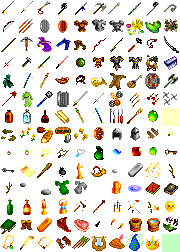
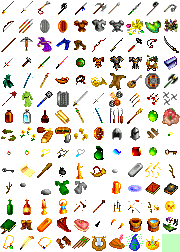
A few item graphic updates - New weird meat graphic by ADoS - Fix up artifacts in mist orb graphic - Fix some erroneously transparent pixels

Changed region(s): [[0.8889, 0.4167, 1.0, 0.5], [0.8056, 0.5833, 0.8889, 0.6389]]

diff --git a/rsrc/graphics/CREDITS.md b/rsrc/graphics/CREDITS.md
@@ -89,7 +89,7 @@ background flooring.
 For item graphics, most are original BoE graphics, except for the following:
 
 - The last two rows of objects.png are by ADoS, as is graphic 17.
-- On tinyobj.png, graphics 17, 45-54, and 134-138 are by ADoS.
+- On tinyobj.png, graphics 17, 45-54, 69, and 134-138 are by ADoS.
 
 startanim.png has been heavily modified by ADoS with new text, but the actual pictures
 in it are still all original BoE graphics.
